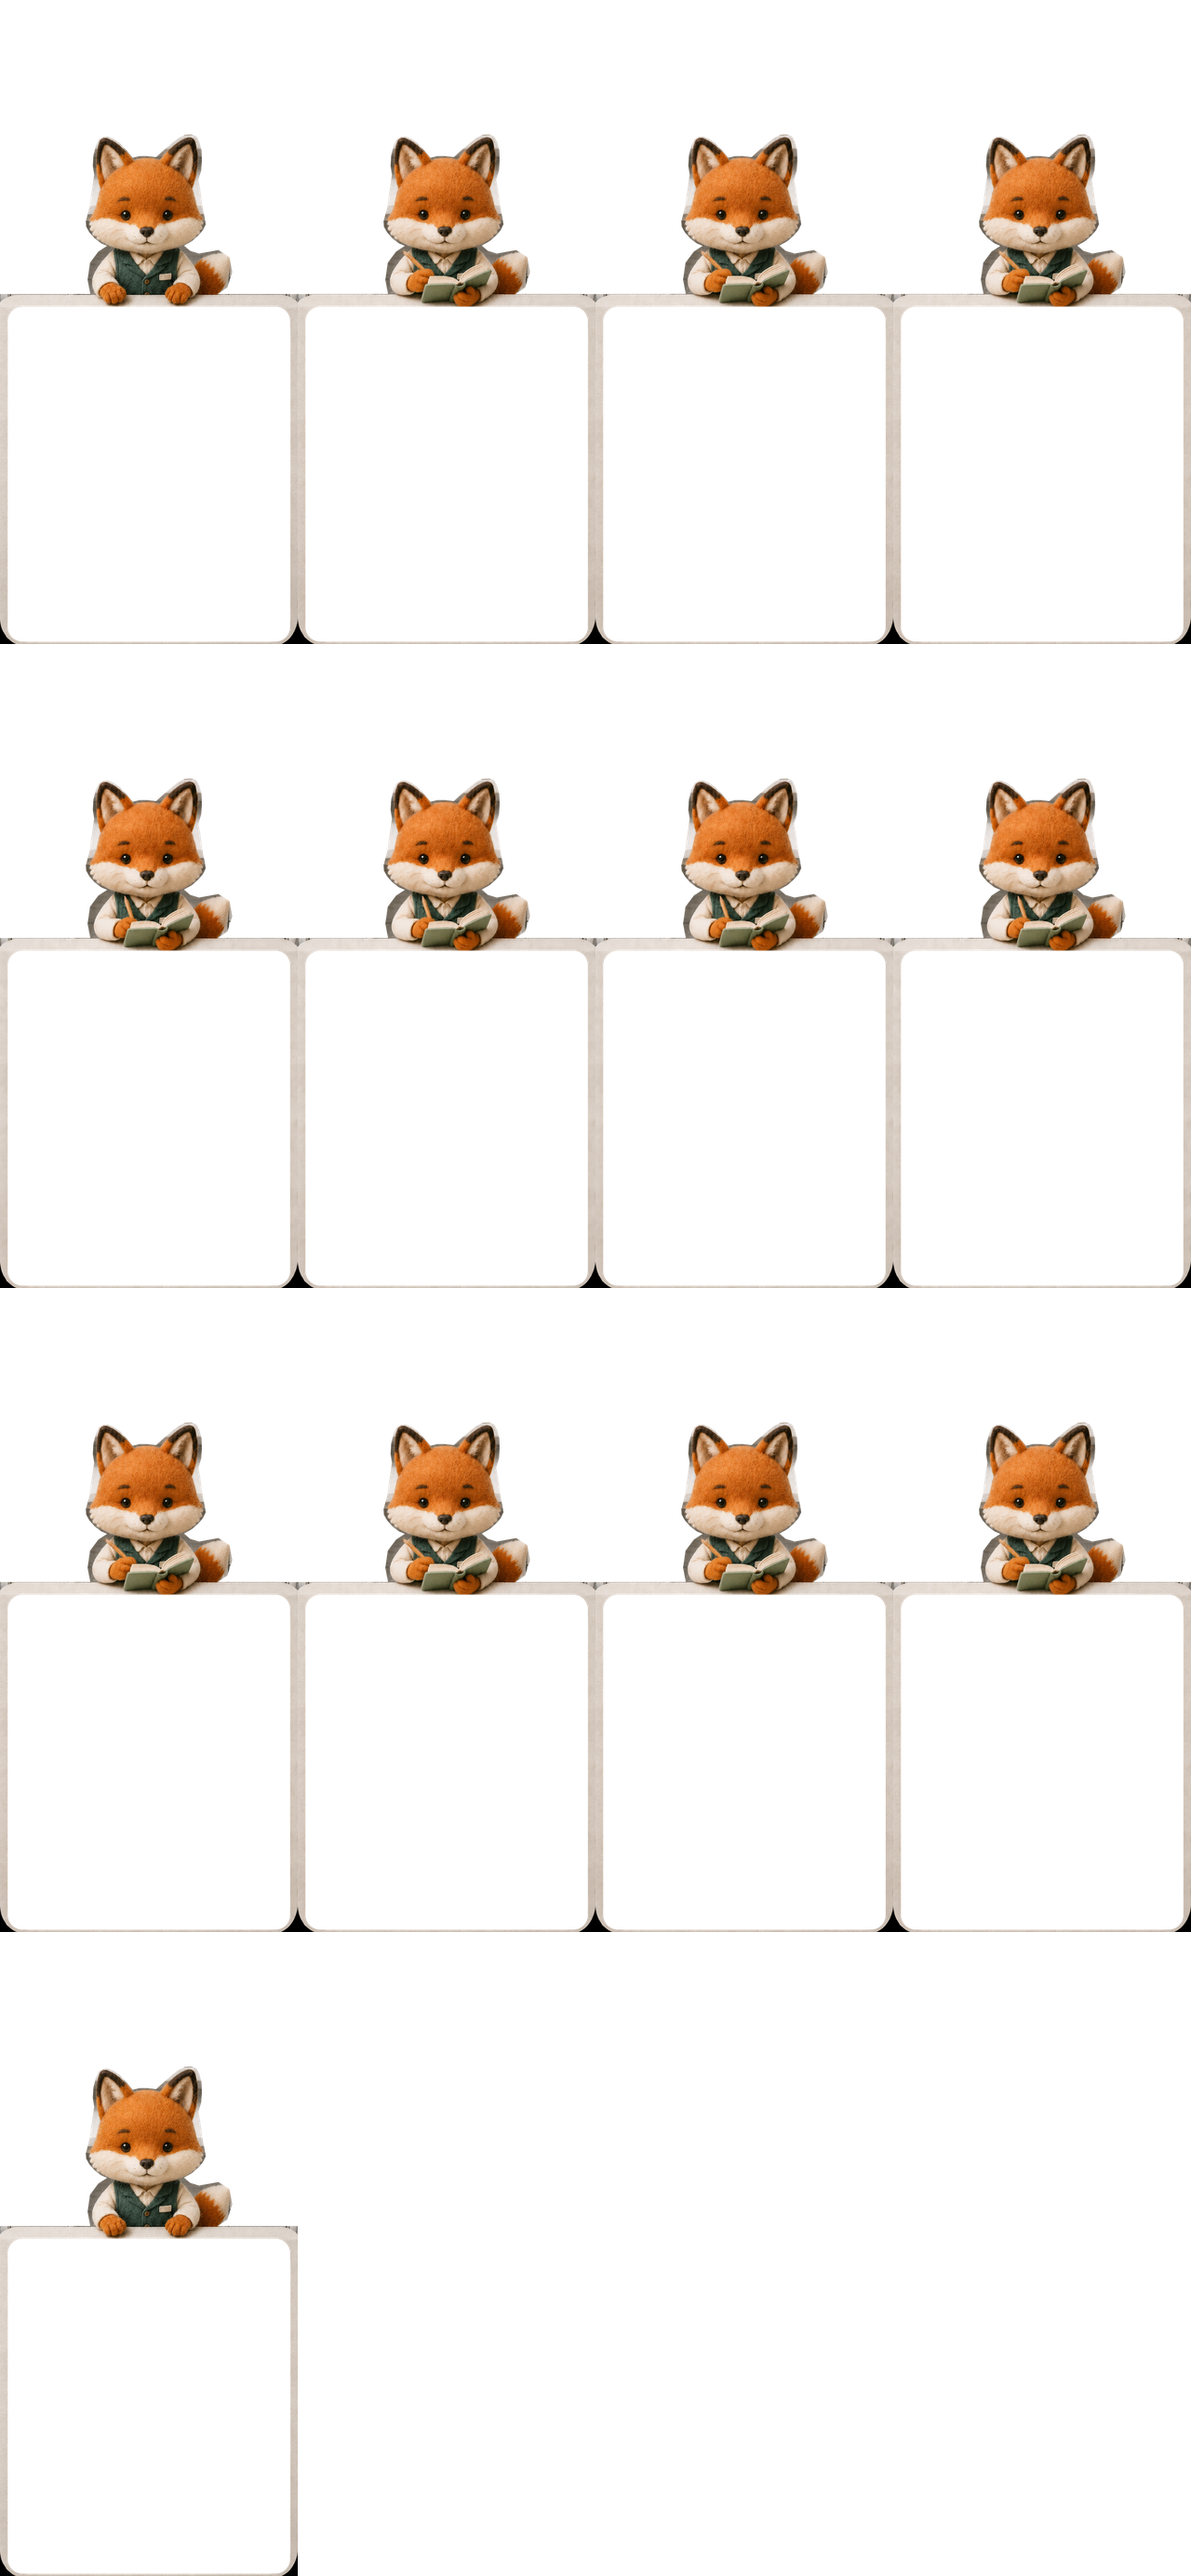
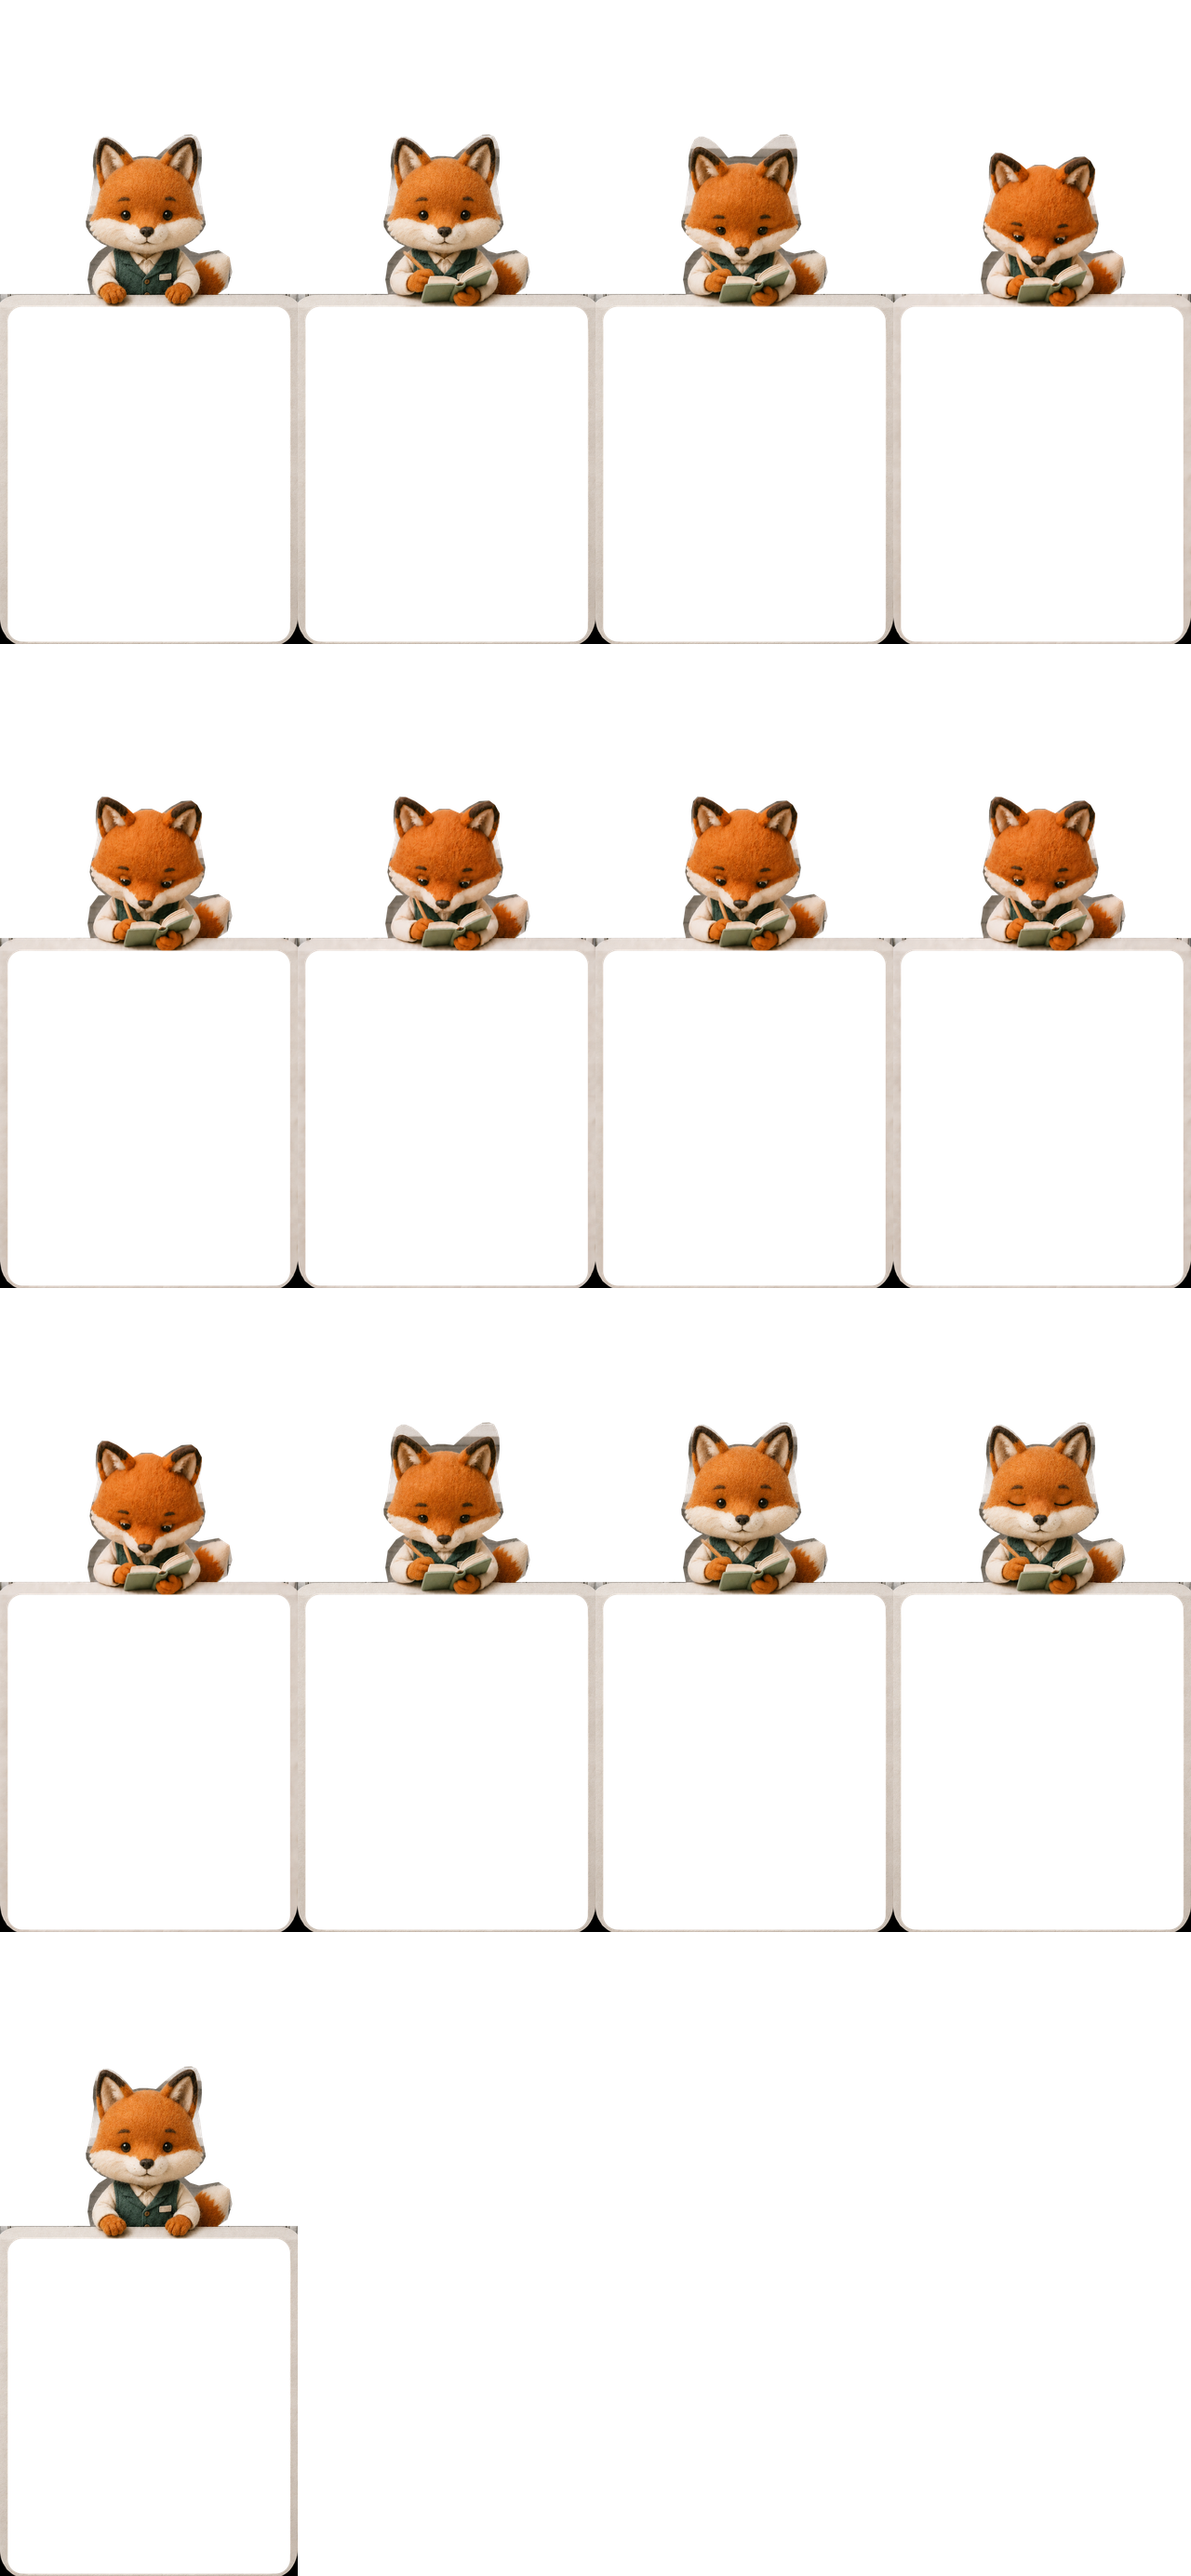
Refine notebook writing and blinking animation

diff --git a/apps/miniprogram/miniprogram/lib/fox-animation-controller.ts b/apps/miniprogram/miniprogram/lib/fox-animation-controller.ts
@@ -81,6 +81,22 @@ export const FOX_ANIMATION_CLIPS: Record<FoxActionId, FoxAnimationClip> = {
 
 type StateListener = (state: FoxAnimationState) => void;
 
+// Semantic poses in note.webp: hold, lower head, write A/B, pause, raise, blink.
+// A writing bout stays looking at the page; eye contact happens only after it.
+const WRITING_SEQUENCE = [
+  { frame: 2, listening: 180, thinking: 260 },
+  { frame: 3, listening: 220, thinking: 420 },
+  { frame: 4, listening: 240, thinking: 440 },
+  { frame: 5, listening: 300, thinking: 520 },
+  { frame: 6, listening: 220, thinking: 420 },
+  { frame: 7, listening: 340, thinking: 580 },
+  { frame: 8, listening: 480, thinking: 1500 },
+  { frame: 9, listening: 180, thinking: 260 },
+  { frame: 10, listening: 1100, thinking: 1800 },
+  { frame: 11, listening: 130, thinking: 130 },
+  { frame: 10, listening: 1000, thinking: 1400 },
+] as const;
+
 /** Shared playback driver. Hosts provide activity and render emitted frames. */
 export class FoxAnimationController {
   private actionId: FoxActionId = 'blink';
@@ -93,7 +109,7 @@ export class FoxAnimationController {
   private behavior: FoxBehavior = chooseFoxBehavior(this.activity);
   private welcomed = false;
   private lastAcknowledged = -Infinity;
-  private strokes = 0;
+  private writingStep = 0;
   private listener: StateListener;
 
   constructor(listener: StateListener) { this.listener = listener; }
@@ -149,7 +165,10 @@ export class FoxAnimationController {
 
   private startOneShot(action: FoxActionId, phase: FoxAnimationPhase): void {
     this.stopTimer(); this.actionId = action; this.frame = this.firstFrame;
-    if (action === 'note' && this.behavior.playback === 'writing') { this.frame = 4; this.strokes = 0; }
+    if (action === 'note' && this.behavior.playback === 'writing') {
+      this.phase = phase; this.playing = true; this.writingStep = 0;
+      this.showWritingStep(); return;
+    }
     this.phase = phase; this.playing = true; this.emit();
     this.schedule(() => this.advance(), 1000 / this.clip.fps);
   }
@@ -164,23 +183,22 @@ export class FoxAnimationController {
       this.phase = 'action';
       this.schedule(() => this.advance(), 1000 / this.clip.fps);
     } else if (this.behavior.playback === 'writing') {
-      this.schedule(() => this.startOneShot('note', 'action'), FOX_TIMING.writingDelay);
+      this.schedule(() => this.startOneShot('note', 'action'),
+        this.activity.phase === 'listening' ? 900 : FOX_TIMING.writingDelay);
     } else this.scheduleAmbient();
   }
 
   private advance(): void {
     if (this.actionId === 'note' && this.behavior.playback === 'writing') {
-      this.strokes++;
-      if (this.strokes >= 8 && Date.now() - this.lastAcknowledged >= FOX_TIMING.acknowledgeCooldown) {
-        this.lastAcknowledged = Date.now(); this.startOneShot('nod', 'action'); return;
+      this.writingStep++;
+      if (this.writingStep >= WRITING_SEQUENCE.length) {
+        if (this.activity.phase === 'listening'
+          && Date.now() - this.lastAcknowledged >= FOX_TIMING.acknowledgeCooldown) {
+          this.lastAcknowledged = Date.now(); this.startOneShot('nod', 'action'); return;
+        }
+        this.writingStep = 0;
       }
-      this.frame = this.frame === 4 ? 1 : 4;
-      this.emit();
-      const thinking = this.activity.phase === 'processing';
-      this.schedule(() => this.advance(), thinking
-        ? this.strokes % 4 === 0 ? 1400 : 600
-        : this.strokes % 8 === 0 ? FOX_TIMING.writingPause : 360);
-      return;
+      this.showWritingStep(); return;
     }
     this.frame += 1;
     if (this.frame < this.endFrame) {
@@ -191,9 +209,23 @@ export class FoxAnimationController {
     } else this.applyBehavior();
   }
 
+  private showWritingStep(): void {
+    const step = WRITING_SEQUENCE[this.writingStep] ?? WRITING_SEQUENCE[0];
+    this.frame = step.frame; this.emit();
+    this.schedule(() => this.advance(), this.activity.phase === 'processing' ? step.thinking : step.listening);
+  }
+
+  private blinkWithNotebook(): void {
+    this.actionId = 'note'; this.frame = 11; this.phase = 'action'; this.emit();
+    this.schedule(() => this.applyBehavior(), 130);
+  }
+
   private scheduleAmbient(): void {
     if (this.behavior.playback !== 'ambient') return;
-    this.schedule(() => this.startOneShot(this.activity.notebook ? 'nod' : 'blink', 'action'),
+    this.schedule(() => {
+      if (this.activity.notebook) this.blinkWithNotebook();
+      else this.startOneShot('blink', 'action');
+    },
       FOX_TIMING.blinkMin + Math.random() * (FOX_TIMING.blinkMax - FOX_TIMING.blinkMin));
   }
   private schedule(callback: () => void, delay: number): void {

diff --git a/apps/miniprogram/miniprogram/lib/fox-behavior.ts b/apps/miniprogram/miniprogram/lib/fox-behavior.ts
@@ -11,7 +11,7 @@ export const DEFAULT_FOX_ACTIVITY: FoxActivity = {
 };
 export const FOX_TIMING = {
   blinkMin: 8000, blinkMax: 14_000, writingDelay: 120,
-  writingPause: 500, acknowledgeCooldown: 12_000,
+  acknowledgeCooldown: 12_000,
 };
 export type FoxBehaviorAction = 'blink' | 'talk' | 'wave' | 'note' | 'nod' | 'notebookTalk';
 export interface FoxBehavior {

diff --git a/apps/miniprogram/tools/fox-clerk-stop-motion/build_sprites.py b/apps/miniprogram/tools/fox-clerk-stop-motion/build_sprites.py
@@ -57,6 +57,20 @@ def actor_mask(size: tuple[int, int], pose: str) -> Image.Image:
         (289, 696), (271, 682), (256, 665), (247, 649),
         (246, 633), (251, 615), (257, 592), (260, 564), (265, 534),
     ]
+    if pose == "writing-down":
+        # The bowed ears sit lower than the upright head. Leaving the upright
+        # mask here would carry shelf pixels around the moving ear tips.
+        fox = [
+            (280, 547), (274, 511), (275, 477), (280, 450),
+            (292, 437), (310, 438), (336, 450), (361, 467), (381, 485),
+            (405, 472), (435, 472), (464, 485), (490, 466), (520, 450),
+            (548, 448), (565, 461), (578, 485), (578, 514), (570, 548),
+            (577, 580), (582, 611), (588, 640), (584, 666),
+            (570, 696), (552, 712),
+        ] + fox[34:53] + [
+            (302, 719), (280, 700), (264, 679), (257, 653),
+            (261, 628), (270, 595),
+        ]
     draw.polygon(points(fox), fill=255)
 
     if pose.startswith("wave"):
@@ -184,7 +198,7 @@ def write_sheet(frames: list[Image.Image], action: str, columns: int = 4) -> dic
             "blink": "狐狸层切换睁眼、半闭和闭眼姿态；环境与白框保持静止",
             "talk": "整张狐狸与板子完全固定，只切换嘴部口型，消除脸部纹理闪动",
             "wave": "固定狐狸身体与板子，仅让四指纯橙色毛毡手臂完成抬手、慢速摆动和收手",
-            "note": "手持浅色笔记本，用铅笔完成几次短笔画，再回到静止姿态",
+            "note": "抬头听、低头看本子连续写几笔、停笔回看、抬头眨眼；书写期间视线保持朝下",
             "nod": "保持本子与双手稳定，低头回应后抬头，再回到静止姿态",
             "notebookTalk": "拿着本子面向你说话，本子与双手固定，仅切换口型",
         }[action],
@@ -232,8 +246,13 @@ def main() -> None:
     hold_actor = actor_frame(hold, "neutral")
     # Writing uses complete generated actor/board keyframes, never hand patches
     # or a separately pasted notebook. Occlusion belongs to the source image.
-    note_hold_actor = actor_frame(normalized_image("notebook-hold.png", size), "neutral")
-    writing_actor = actor_frame(normalized_image("notebook-write-active.png", size), "neutral")
+    writing_actor = actor_frame(normalized_image("notebook-write-down.png", size), "writing-down")
+    writing_stroke = actor_frame(normalized_image("notebook-write-down-stroke.png", size), "writing-down")
+    # Eyes only: keep the approved notebook/face plate completely stable.
+    eyes_mask = rounded_mask(size, (318, 592, 519, 639), 16).filter(ImageFilter.GaussianBlur(3))
+    notebook_blink = actor_frame(Image.composite(
+        normalized_image("notebook-blink.png", size), hold, eyes_mask,
+    ), "neutral")
     nod_actor = actor_frame(nodding, "neutral")
     notebook_quiet = actor_frame(keep_only_mouth(poses["talk-quiet"], hold), "neutral")
     notebook_open = actor_frame(keep_only_mouth(poses["talk-a"], hold), "neutral")
@@ -271,9 +290,9 @@ def main() -> None:
         write_sheet(talk_frames, "talk"),
         write_sheet(wave_frames, "wave"),
         write_sheet([
-            actor["neutral"], note_hold_actor, note_hold_actor, note_hold_actor,
-            writing_actor, writing_actor, writing_actor, writing_actor,
-            note_hold_actor, note_hold_actor, note_hold_actor, note_hold_actor,
+            actor["neutral"], hold_actor, nod_actor, writing_actor,
+            writing_actor, writing_stroke, writing_actor, writing_stroke,
+            writing_actor, nod_actor, hold_actor, notebook_blink,
             actor["neutral"],
         ], "note"),
         write_sheet([
@@ -289,7 +308,7 @@ def main() -> None:
         ], "notebookTalk"),
     ]
     manifest = {
-        "version": 12,
+        "version": 13,
         "character": "fox-clerk",
         "style": "needle-felt stop-motion",
         "frameMode": "three-layer",
